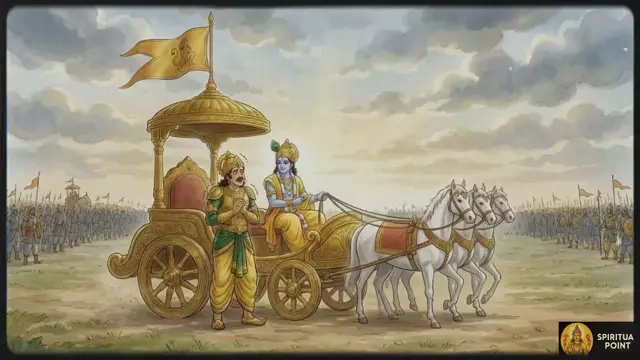
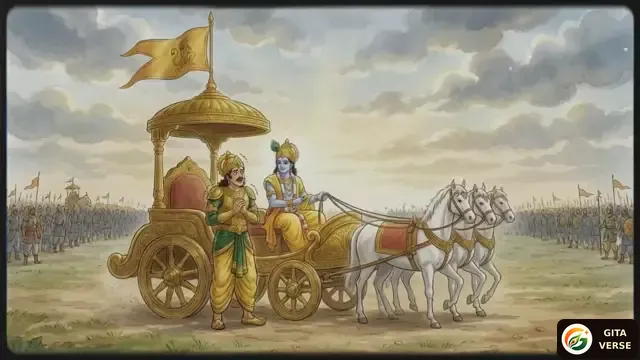
Chapter videos: final part counts, Gita Verse badge on posters
132 parts in all (6-9 per chapter), cut in pauses in the narration.
The part numbers shrink to fit one row on phones, and the poster
stills carry the Gita Verse badge like the videos.

Claude-Session: https://claude.ai/code/session_01WJvvmXLitXUakV3MHL7Z8n

Changed region(s): [[0.8438, 0.8861, 1.0, 1.0]]

diff --git a/index.html b/index.html
@@ -357,7 +357,7 @@ button{cursor:pointer;touch-action:manipulation}button:disabled{cursor:default}i
 .language-control{position:relative;z-index:4;display:flex;flex-wrap:wrap;gap:8px;align-items:center;margin:16px;padding:14px;background:#fff8eb;border:1px solid #eadcc8;border-radius:16px;color:#674633}.language-control label{font-weight:600;font-size:13px}.language-control select{max-width:100%;min-width:0;flex:1;padding:10px;border:1px solid #d9bd95;border-radius:10px;background:#fffdf8;font-size:16px;color:#51351f}.language-control small{flex-basis:100%;font-size:11px}.btn .free-note{display:block;font-size:10px;font-weight:600;opacity:.8;margin-top:1px}.phone-row{display:flex;gap:8px;align-items:stretch}.phone-row .email-input{flex:1;min-width:0;margin:0}.phone-prefix{display:flex;align-items:center;padding:0 12px;border:1px solid #d9bd95;border-radius:12px;background:#fff8eb;font-weight:700;color:#633811}.otp-input{letter-spacing:.5em;text-align:center;font-size:20px;font-weight:700}.otp-actions{display:flex;justify-content:space-between;margin-top:8px}.link-btn{background:none;border:0;padding:4px 0;color:#8a4a17;font-weight:600;text-decoration:underline;cursor:pointer}.link-btn:disabled{color:#b9a58f;text-decoration:none;cursor:default}.phone-auth #otpStep{margin-top:12px}
 .btn-sub{display:block;margin-top:3px;font-size:12.5px;font-weight:600;opacity:.8}
 .upgrade-card{border:1px solid #e3b75e;background:#fff6e2}.upgrade-card strong{display:block;font-size:16px;margin-bottom:6px}.upgrade-card p{margin:6px 0}.upgrade-price{font-weight:700;color:#7a3d0c}.account-chats{margin:16px 0 4px;padding:12px 14px;border:1px solid #ecd9b4;border-radius:14px;background:#fffaf0;font-size:13px;color:#6b4a2b}.account-chats span{display:block;margin-bottom:8px}.account-delete-chats{border:0;background:none;padding:0;color:#a3261b;font-weight:700;text-decoration:underline;cursor:pointer}.account-delete-chats:disabled{opacity:.5}
-.ask-modes{position:relative;z-index:5;display:flex;gap:6px;margin:12px 12px 0;padding:5px;border-radius:22px;background:#fff8ebe6;border:1px solid #fff;box-shadow:0 6px 18px #5c2e161a}.ask-modes button{flex:1;border:0;border-radius:17px;padding:11px 6px;font-weight:800;font-size:13px;background:transparent;color:#7a3b18}.ask-modes button.active{background:linear-gradient(180deg,#ffd968,#f6bf42);color:#4a220c;box-shadow:0 3px 9px #7a48172b}.talk{position:relative;z-index:3;display:flex;flex-direction:column;align-items:center;padding:14px 12px 24px}.talk-stage{width:min(100%,400px,42vh);aspect-ratio:1;border-radius:26px;box-shadow:0 14px 35px rgba(91,45,12,.22);border:3px solid #fff8e7}.talk-status{margin-top:12px;font-weight:700;font-size:14px;color:#5a260e;text-align:center;min-height:20px}.talk-you{margin-top:8px;max-width:400px;width:100%;background:#ffe9cce6;border-radius:16px 16px 4px 16px;padding:8px 12px;font-size:14px;color:#5a260e}.talk-text{margin-top:8px;width:100%;max-width:400px;height:112px;overflow:hidden;background:#fffaf0d9;border-radius:16px;padding:8px 12px}.talk-words{font-size:17px;line-height:1.55}.talk-text:has(.talk-words:empty){display:none}html.app-mode .talk{padding-bottom:104px}.talk-locked{margin-top:10px;max-width:400px;width:100%;background:#fffaf0f2;border:1px solid #fff;border-radius:18px;padding:14px;text-align:center;color:#5a260e}.talk-locked p{font-size:13px;margin:6px 0 0;color:#765b49}.talk-mic{position:relative;margin-top:16px;width:78px;height:78px;border:0;border-radius:50%;background:linear-gradient(145deg,#ffd96c,#f3b62f);color:#4b210b;display:grid;place-items:center;box-shadow:0 10px 24px #7a48174a}.talk-mic svg{position:relative}.talk-ring{position:absolute;inset:-8px;border-radius:50%;border:3px solid #f47b17;opacity:0;transform:scale(var(--lvl,1));transition:transform .08s}.talk-mic.listening{background:linear-gradient(145deg,#ff9a24,#f47b17);color:#fff}.talk-mic.listening .talk-ring{opacity:.7}.talk-mic.busy{opacity:.55}.talk-hint{margin-top:10px;font-size:12px;color:#7b5a44;text-align:center}.chapter-video{margin:0 0 16px}.chapter-video-poster{position:relative;display:block;width:100%;aspect-ratio:16/9;border:0;border-radius:20px;overflow:hidden;background:#3a1d0c center/cover no-repeat;box-shadow:var(--shadow);padding:0;text-align:left;color:#fff}.chapter-video-poster:after{content:"";position:absolute;inset:0;background:linear-gradient(180deg,#0000 35%,#2a1206d9)}.cv-play{position:absolute;z-index:1;left:50%;top:42%;transform:translate(-50%,-50%);width:62px;height:62px;border-radius:50%;display:grid;place-items:center;background:linear-gradient(145deg,#ffd96c,#f3b62f);color:#4b210b;font-size:24px;box-shadow:0 8px 22px #0006}.cv-label{position:absolute;z-index:1;left:14px;right:14px;bottom:12px}.cv-label b{display:block;font-size:15px}.cv-label small{font-size:12px;opacity:.9}.chapter-video-player{display:block;width:100%;aspect-ratio:16/9;border-radius:20px;background:#000;box-shadow:var(--shadow)}.cv-parts{display:flex;flex-wrap:wrap;align-items:center;gap:6px;margin-top:10px}.cv-parts-title{font-weight:800;font-size:13px;color:#7a3b18;margin-right:2px}.cv-part{min-width:34px;height:34px;border:1px solid #f1d3a3;border-radius:17px;background:#fffaf0;color:#7a3b18;font-weight:800;font-size:13px;padding:0 8px}.cv-part.active{background:linear-gradient(180deg,#ffd968,#f6bf42);border-color:#f6bf42;color:#4a220c}.hear-krishna{display:flex;align-items:center;gap:6px;margin:4px 0 10px;border:0;border-radius:999px;padding:9px 16px;font-weight:800;font-size:13px;background:linear-gradient(180deg,#ffd968,#f6bf42);color:#4a220c;box-shadow:0 4px 10px #7a48172b}.hear-krishna:disabled{opacity:.6}.upgrade-btn,.continue-free-btn{margin-top:8px;width:100%;border:0;border-radius:14px;padding:12px 14px;font-weight:700;background:linear-gradient(180deg,#ffd968,#f6bf42);color:#4a220c}
+.ask-modes{position:relative;z-index:5;display:flex;gap:6px;margin:12px 12px 0;padding:5px;border-radius:22px;background:#fff8ebe6;border:1px solid #fff;box-shadow:0 6px 18px #5c2e161a}.ask-modes button{flex:1;border:0;border-radius:17px;padding:11px 6px;font-weight:800;font-size:13px;background:transparent;color:#7a3b18}.ask-modes button.active{background:linear-gradient(180deg,#ffd968,#f6bf42);color:#4a220c;box-shadow:0 3px 9px #7a48172b}.talk{position:relative;z-index:3;display:flex;flex-direction:column;align-items:center;padding:14px 12px 24px}.talk-stage{width:min(100%,400px,42vh);aspect-ratio:1;border-radius:26px;box-shadow:0 14px 35px rgba(91,45,12,.22);border:3px solid #fff8e7}.talk-status{margin-top:12px;font-weight:700;font-size:14px;color:#5a260e;text-align:center;min-height:20px}.talk-you{margin-top:8px;max-width:400px;width:100%;background:#ffe9cce6;border-radius:16px 16px 4px 16px;padding:8px 12px;font-size:14px;color:#5a260e}.talk-text{margin-top:8px;width:100%;max-width:400px;height:112px;overflow:hidden;background:#fffaf0d9;border-radius:16px;padding:8px 12px}.talk-words{font-size:17px;line-height:1.55}.talk-text:has(.talk-words:empty){display:none}html.app-mode .talk{padding-bottom:104px}.talk-locked{margin-top:10px;max-width:400px;width:100%;background:#fffaf0f2;border:1px solid #fff;border-radius:18px;padding:14px;text-align:center;color:#5a260e}.talk-locked p{font-size:13px;margin:6px 0 0;color:#765b49}.talk-mic{position:relative;margin-top:16px;width:78px;height:78px;border:0;border-radius:50%;background:linear-gradient(145deg,#ffd96c,#f3b62f);color:#4b210b;display:grid;place-items:center;box-shadow:0 10px 24px #7a48174a}.talk-mic svg{position:relative}.talk-ring{position:absolute;inset:-8px;border-radius:50%;border:3px solid #f47b17;opacity:0;transform:scale(var(--lvl,1));transition:transform .08s}.talk-mic.listening{background:linear-gradient(145deg,#ff9a24,#f47b17);color:#fff}.talk-mic.listening .talk-ring{opacity:.7}.talk-mic.busy{opacity:.55}.talk-hint{margin-top:10px;font-size:12px;color:#7b5a44;text-align:center}.chapter-video{margin:0 0 16px}.chapter-video-poster{position:relative;display:block;width:100%;aspect-ratio:16/9;border:0;border-radius:20px;overflow:hidden;background:#3a1d0c center/cover no-repeat;box-shadow:var(--shadow);padding:0;text-align:left;color:#fff}.chapter-video-poster:after{content:"";position:absolute;inset:0;background:linear-gradient(180deg,#0000 35%,#2a1206d9)}.cv-play{position:absolute;z-index:1;left:50%;top:42%;transform:translate(-50%,-50%);width:62px;height:62px;border-radius:50%;display:grid;place-items:center;background:linear-gradient(145deg,#ffd96c,#f3b62f);color:#4b210b;font-size:24px;box-shadow:0 8px 22px #0006}.cv-label{position:absolute;z-index:1;left:14px;right:14px;bottom:12px}.cv-label b{display:block;font-size:15px}.cv-label small{font-size:12px;opacity:.9}.chapter-video-player{display:block;width:100%;aspect-ratio:16/9;border-radius:20px;background:#000;box-shadow:var(--shadow)}.cv-parts{display:flex;align-items:center;gap:5px;margin-top:10px}.cv-parts-title{flex:none;font-weight:800;font-size:12px;color:#7a3b18;margin-right:3px}.cv-part{flex:1 1 0;min-width:0;max-width:34px;aspect-ratio:1;border:1px solid #f1d3a3;border-radius:50%;background:#fffaf0;color:#7a3b18;font-weight:800;font-size:13px;padding:0}.cv-part.active{background:linear-gradient(180deg,#ffd968,#f6bf42);border-color:#f6bf42;color:#4a220c}.hear-krishna{display:flex;align-items:center;gap:6px;margin:4px 0 10px;border:0;border-radius:999px;padding:9px 16px;font-weight:800;font-size:13px;background:linear-gradient(180deg,#ffd968,#f6bf42);color:#4a220c;box-shadow:0 4px 10px #7a48172b}.hear-krishna:disabled{opacity:.6}.upgrade-btn,.continue-free-btn{margin-top:8px;width:100%;border:0;border-radius:14px;padding:12px 14px;font-weight:700;background:linear-gradient(180deg,#ffd968,#f6bf42);color:#4a220c}
 #translationStatus{font-size:12px;color:#805625}[dir="auto"]{unicode-bidi:plaintext}
 </style>
 <style>

diff --git a/app.js b/app.js
@@ -273,7 +273,7 @@ function showChapterPage(n){currentChapter=n;currentPage=1;const c=chapters[n-1]
 // parts in Cloudflare R2 for 3 hours; each part plays on into the next.
 const CHAPTER_VIDEO_LENGTH=['6:58','9:12','7:54','8:59','7:20','8:35','8:35','9:04','10:10','11:12','9:59','8:22','8:20','9:03','9:41','7:18','8:38','10:45'];
 // Parts per chapter. Must match PARTS in the chapter-video function.
-const CHAPTER_VIDEO_PARTS=[6,6,6,6,6,6,6,6,6,6,6,6,6,6,6,6,6,6];
+const CHAPTER_VIDEO_PARTS=[6,8,7,7,6,7,7,7,8,9,8,7,7,7,8,6,7,9];
 const CHAPTER_VIDEO_PAYWALL='Watch the animated explanation of every chapter, plus all 701 verses and Ask Krishna.';
 function renderChapterVideo(n){
   const box=document.getElementById('chapterVideo');

diff --git a/supabase/functions/chapter-video/index.ts b/supabase/functions/chapter-video/index.ts
@@ -15,7 +15,7 @@ const corsHeaders = {
 const FREE_CHAPTERS = new Set([1]);
 const LINK_SECONDS = 3 * 60 * 60;
 // Parts per chapter. Must match CHAPTER_VIDEO_PARTS in app.js.
-const PARTS = [6,6,6,6,6,6,6,6,6,6,6,6,6,6,6,6,6,6];
+const PARTS = [6,8,7,7,6,7,7,7,8,9,8,7,7,7,8,6,7,9];
 
 function json(body: unknown, status = 200) {
   return new Response(JSON.stringify(body), { status, headers: { ...corsHeaders, "Content-Type": "application/json" } });

diff --git a/docs/OPERATIONS.md b/docs/OPERATIONS.md
@@ -67,10 +67,10 @@ There is no automatic schedule; runs are started by hand. The 13 Indian language
 
 Each chapter page has an animated explainer video (from Spiritual Point's "Bhagavad Gita: The Ultimate Guide To Life", licensed by the owner from the channel, with their agreement to rebrand: the channel's corner logo is replaced by a Gita Verse badge and the channel-logo shot near the end of chapter 18 is replaced by a hold on the preceding frame; the narration is unchanged). Chapter 1 plays for everyone; chapters 2-18 for members, others see a lock that opens the plans.
 
-- **Files.** 18 MP4s (720p, H.264, AAC, `+faststart`), cut from the creator's video at each chapter title card, named `gita-chapter-1.mp4` … `gita-chapter-18.mp4`, in the private Cloudflare R2 bucket `gita-chapter-videos`. Posters: `assets/chapter-video/poster-N.webp`. The Gita Verse badge (244×120 at 1080p) is overlaid at x 1670, y 956, over the channel logo (x 1681-1899, y 967-1061). Lengths shown on the card: `CHAPTER_VIDEO_LENGTH` in `app.js`.
-- **Access.** The `chapter-video` edge function checks access (chapter 1 free, others need active paid access) and returns a signed R2 link that works for 3 hours. R2 has no download charges, so the videos never use Supabase's bandwidth.
+- **Files.** Each chapter (cut from the creator's video at its title card) is split into short parts of about 1-1.5 minutes, 132 MP4s in all (720p, H.264, AAC, `+faststart`), named `gita-chapter-N-part-K.mp4`, in the private Cloudflare R2 bucket `gita-chapter-videos`. Parts are cut only in pauses in the narration (at least 0.75 s, found with a speech detector), preferring the long musical pauses where the scene also changes, with a short fade at each join. Parts per chapter: `CHAPTER_VIDEO_PARTS` in `app.js` and `PARTS` in the `chapter-video` function, which must match. The page lists the part numbers under the video and plays each part on into the next. Posters: `assets/chapter-video/poster-N.webp`. The Gita Verse badge (244×120 at 1080p) is overlaid at x 1670, y 956, over the channel logo (x 1681-1899, y 967-1061). Lengths shown on the card: `CHAPTER_VIDEO_LENGTH` in `app.js`.
+- **Access.** The `chapter-video` edge function checks access (chapter 1 free, others need active paid access) and returns signed R2 links to all parts of the chapter that work for 3 hours. R2 has no download charges, so the videos never use Supabase's bandwidth.
 - **Secrets** (Supabase → Edge Functions → Secrets): `R2_ACCOUNT_ID`, `R2_ACCESS_KEY_ID`, `R2_SECRET_ACCESS_KEY` (an R2 API token with Object Read on the bucket), optional `R2_BUCKET`. Until they are set, the card says the video is not available yet.
-- **Replacing a video.** Upload a file with the same name to the bucket; no deploy needed. Plays are counted as `chapter_video_play`.
+- **Replacing a video.** Upload a file with the same name to the bucket; no deploy needed (unless the number of parts changes). Plays are counted as `chapter_video_play`.
 
 ## Talking Krishna
 

diff --git a/docs/ARCHITECTURE.md b/docs/ARCHITECTURE.md
@@ -73,7 +73,7 @@ JWT verification at the gateway is **off** for every function (see `supabase/con
 | `get-my-access` | Signed-in user | Plan, expiry, `access_active`, `free_question_available`. |
 | `create-payment-link` | Signed-in user | Body `plan`: `"annual"` (₹499, default) or `"monthly"` (₹149). With `{mode:"popup"}`: creates a Razorpay order for that price (notes `checkout: "popup"`, `product: "gita_verse_annual"` or `"gita_verse_monthly"`, `user_id`) and returns `order_id`, the public `key_id` and `prefill` (the user's phone or email) for the on-site checkout. Otherwise: a payment link for that price (same `product` note) (expires in 1 hour) that returns to `/?payment=success`. Either way the Razorpay reference is stored in `payment_transactions.payment_link_id`. |
 | `razorpay-webhook` | Razorpay (HMAC signature) | On `payment_link.paid`, or `order.paid` for an order marked `checkout: "popup"` with a known `product`, checks that the amount is that product's price (₹499 annual, also the old ₹999 and ₹1,000 for checkouts opened before a price change; ₹149 monthly; ₹399 for the retired 3-month plan, still honoured for checkouts opened before it was withdrawn; links without a product are annual) and unlocks 1 year, 1 month or 3 months (stacked on top of any remaining access; `apply_annual_payment` sets the length from the amount, and every plan keeps `plan_status = 'annual'`). Orders from other products on the same Razorpay account are ignored. Idempotent. Every verified event is logged to `payment_events`. Then sends the server-side Meta Purchase (`_shared/meta.ts`) if Meta hasn't accepted it yet. |
-| `chapter-video` | Anyone for chapter 1, signed-in user with active access for 2-18 | Returns a 3-hour signed link to the chapter's explainer video in the private Cloudflare R2 bucket (see OPERATIONS). |
+| `chapter-video` | Anyone for chapter 1, signed-in user with active access for 2-18 | Returns 3-hour signed links to the short parts of the chapter's explainer video in the private Cloudflare R2 bucket (see OPERATIONS). |
 | `meta-purchase-retry` | pg_cron every 10 min (`x-worker-token` from vault `meta_retry_token`) | Retries server-side Meta Purchases not yet accepted (see OPERATIONS). |
 | `admin-stats` | Pinned admin email **and** user id | Dashboard data from the `admin_stats` SQL function; excludes the owner's test accounts from funnel counts. |
 | `translation-worker` | Token from Vault (`x-worker-token`) | Pre-translates verse text into every language in the background. |
